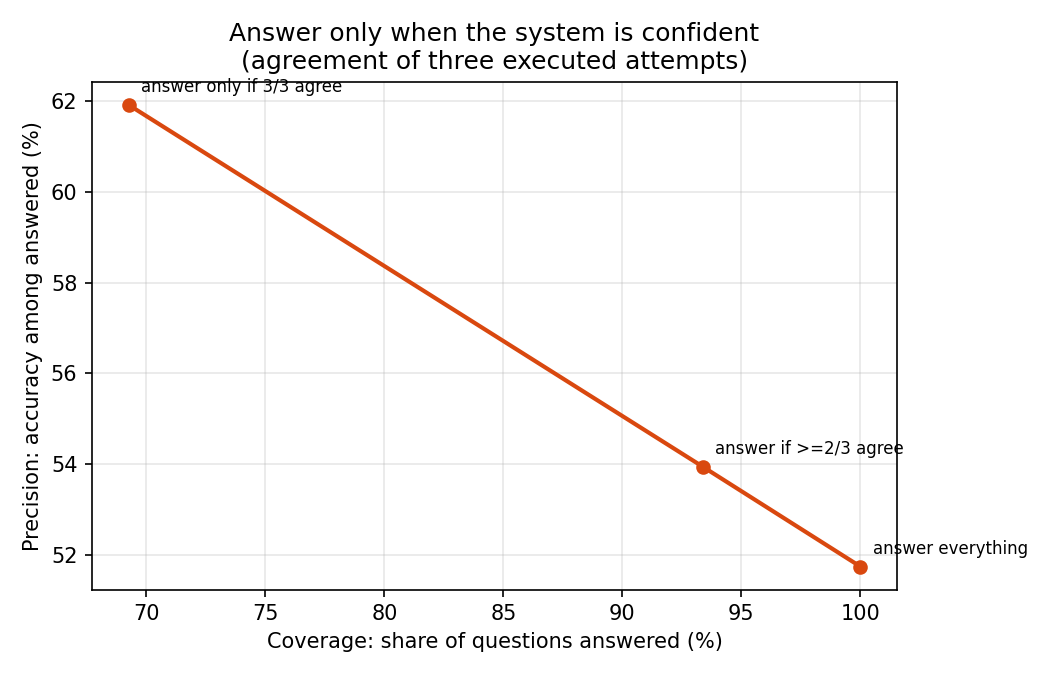
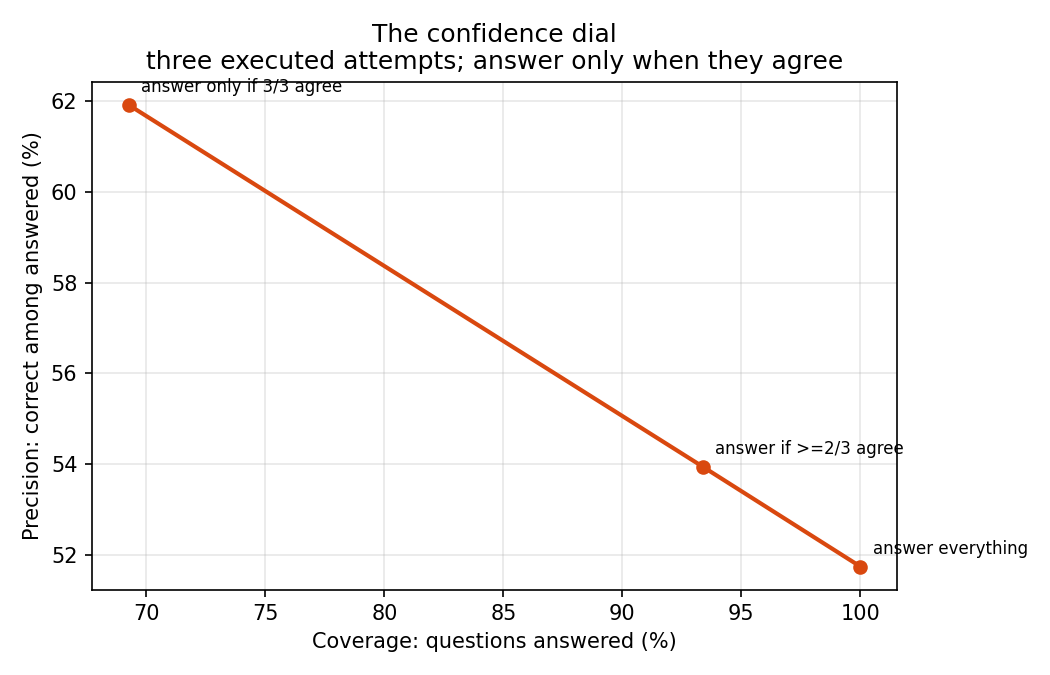
Final results, pitch, business case, README, corrected charts and scorer audit

Changed region(s): [[0.1219, 0.0311, 0.7924, 0.1244], [0.0, 0.1867, 0.061, 0.8089], [0.2438, 0.9333, 0.701, 0.9644]]

diff --git a/hackathon/cypher/README.md b/hackathon/cypher/README.md
@@ -1,0 +1,51 @@
+# Text-to-Cypher on open models: a benchmark that executes, a harness that knows when to stop, and a free fine-tune that beats the priciest model
+
+Fireworks "Make your own frontier" hackathon, 2 Nov 2026.
+
+**One line:** an analyst asks a question in English, we generate Cypher, run it on a real Neo4j graph, and return rows. Graded by execution, not by string match.
+
+## Headline numbers
+| Setup | Accuracy | $ / 1k |
+|---|---|---|
+| kimi-k3 (priciest open model) | 50.0% | $6.36 |
+| glm-5p3-flash (cheapest small) | **60.5%** | **$0.24** |
+| Muse Glimmer 30B base | 51.5% | — |
+| **30B + SFT + RFT (ours, free training)** | **60.0%** | $0.25 served |
+| small + harness with routing | 59.0% (67.0% column-tolerant) | $0.77 |
+
+Three findings, with the evidence in `RESULTS_FINAL.md`:
+1. **Price does not buy accuracy here.** Three expensive models sit at 49 to 53%; the cheapest is at 60.5%. We eliminated scorer strictness, column tolerance and reasoning budget as explanations.
+2. **Fine-tuning on execution reward works.** 51.5% → 59.0% (SFT) → 60.0% (RFT), training free. The advantage-weighted RFT variant regressed to 36.5%; diagnosed and documented rather than dropped.
+3. **~15% of the public benchmark is mis-keyed.** Of 36 easy-tier "failures", the model is genuinely wrong twice. Audit in `audit/MISS_AUDIT.md`.
+
+## The benchmark
+- 200 questions from the public `neo4j/text2cypher-2025v1` **test** split, 40 from each of five live Neo4j demo graphs.
+- Every gold query executed on the live graph; its rows are the answer key (stored per row).
[1 lines of base64/hex data omitted]
+- Training: 500 rows from the **train** split only. Zero overlap, verified by `../runs/common/check_leak.py`.
+- Grader: execution accuracy with result-set equality, rules and justifications in `audit/SCORING.md`, **31 unit tests** in `test_score.py`.
+
+## The harness (`harness/`)
+`validate` (read-only, labels and properties exist in the schema) → `generate` → `execute` → `repair` once from the error text → `vote3` (three attempts, majority by executed rows) → `route` (escalate only when no two agree) → `schema_prune` (optional).
+
+It does not raise accuracy. It makes the system shippable: broken queries 2.2% → 0.1%, and agreement across three executed attempts is a usable confidence signal (unanimous 64.8% correct, split 35%, disagree 17.7%). Calibration in `harness/CALIBRATION.md`.
+
+## Fine-tuning (`train/`)
+LoRA on Muse Glimmer 30B through the Fireworks **Training API** (no dataset upload, no deployment). SFT on 500 execution-verified rows, then RFT by rejection sampling where the reward is "the query's rows match gold". `train/TRAIN.md` has the reward function and the full write-up including the failed variant. Saved model: `accounts/raheeldeal/models/cypher-sft-1150`.
+
+## Observability (`trace/`)
+Every question traced to Langfuse: schema pruning, each generation (prompt, reply, tokens, cost), validation problems, execution (exact Cypher, status, rows, errors), repair, vote agreement, routing. Default off, so scored runs are unaffected. `trace/README.md` for the dashboard.
+
+## Reproduce
+```bash
+export FIREWORKS_API_KEY=...
+pip install -r requirements.txt   # neo4j driver, matplotlib
+pytest test_score.py                                            # 31 tests
+python3 run_eval.py --model accounts/fireworks/models/glm-5p3-flash --prompt prompts/v1_plain.txt
+python3 harness/run_harness.py --config route_big
+python3 audit/superset_test.py                                  # column-tolerant re-score
+python3 make_charts.py                                          # frontier.png, coverage.png
+```
+
+## Layout
+`data/` locked exam + training rows · `executor.py` read-only Cypher runner · `score.py` graders · `harness/` the harness · `train/` fine-tuning · `audit/` scorer audit, miss taxonomy, re-scoring · `trace/` Langfuse · `review/` eval-set review sheet for human annotators · `RESULTS_FINAL.md` · `BUSINESS.md` · `PITCH.md` · `TEAM.md`

diff --git a/hackathon/cypher/BUSINESS.md b/hackathon/cypher/BUSINESS.md
@@ -1,0 +1,36 @@
+# Business value
+
+## The buyer
+Analyst teams querying graph databases: fraud rings, supply-chain exposure, identity resolution, knowledge graphs. Today a question like "which suppliers share a bank account with a flagged entity?" goes into a ticket queue and an engineer writes Cypher. Median wait: hours to days.
+
+## Workload assumption
+2,000 analyst questions per day (a 40-person analytics org, ~1 question per analyst per hour).
+
+## Cost per correct answer
+The metric that matters is not price per call, it is price per *correct* answer, because a wrong answer costs more than it saves.
+
+| Setup | Accuracy | $ / 1k questions | $ per correct answer | $ / month at 2k/day |
+|---|---|---|---|---|
+| kimi-k3 (priciest open) | 50.0% | $6.36 | $0.0127 | $382 |
+| glm-5p3 (large) | 49.0% | $3.13 | $0.0064 | $188 |
+| **glm-5p3-flash (small)** | **60.5%** | **$0.24** | **$0.0004** | **$14** |
+| 30B + SFT + RFT (ours) | 60.0% | $0.25 (served) | $0.0004 | $15 |
+
+**The frontier premium buys nothing.** Paying 26x more per call delivers 10 points *less* accuracy on this task. At 2,000 questions a day that is $368/month of pure waste, and the cheap model is the better product.
+
+## The number that actually sells
+Wrong answers reaching the analyst, per 1,000 questions:
+
+| Setup | Answers given | Wrong answers delivered |
+|---|---|---|
+| Expensive model, answers everything | 1,000 | 500 |
+| Our model, answers everything | 1,000 | 395 |
+| **Our model + confidence dial (3/3 agreement)** | **692** | **244**, and 308 flagged for review |
+
+An analyst can act on "I don't know". They cannot act on a confident wrong number that reaches a board deck. The confidence dial is what makes a 60%-accuracy system shippable: it converts silent errors into an explicit review queue.
+
+## Analyst time
+A query an engineer would take 20 minutes to write returns in ~2 seconds. At 692 auto-answered questions per 1,000, that is roughly 230 engineer-hours saved per 1,000 questions, against 103 questions sent to review.
+
+## What it costs to run
+$14 per month of inference at this workload. Fine-tuning was free (Fireworks free tier, under 16B / promotional base). The expensive line item is not the model, it is the engineer the model replaces.
